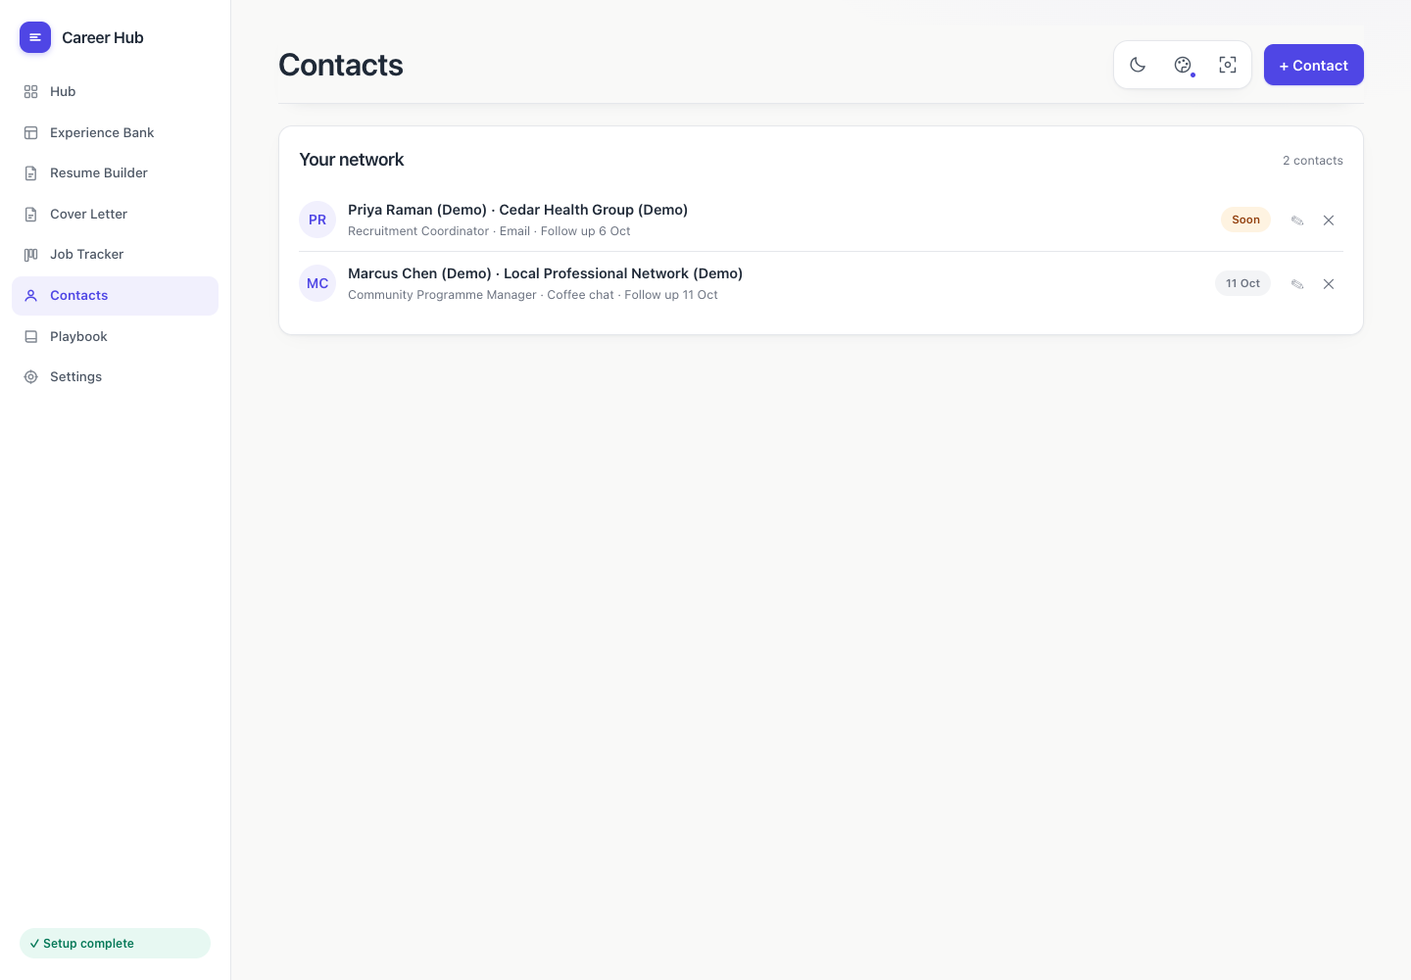
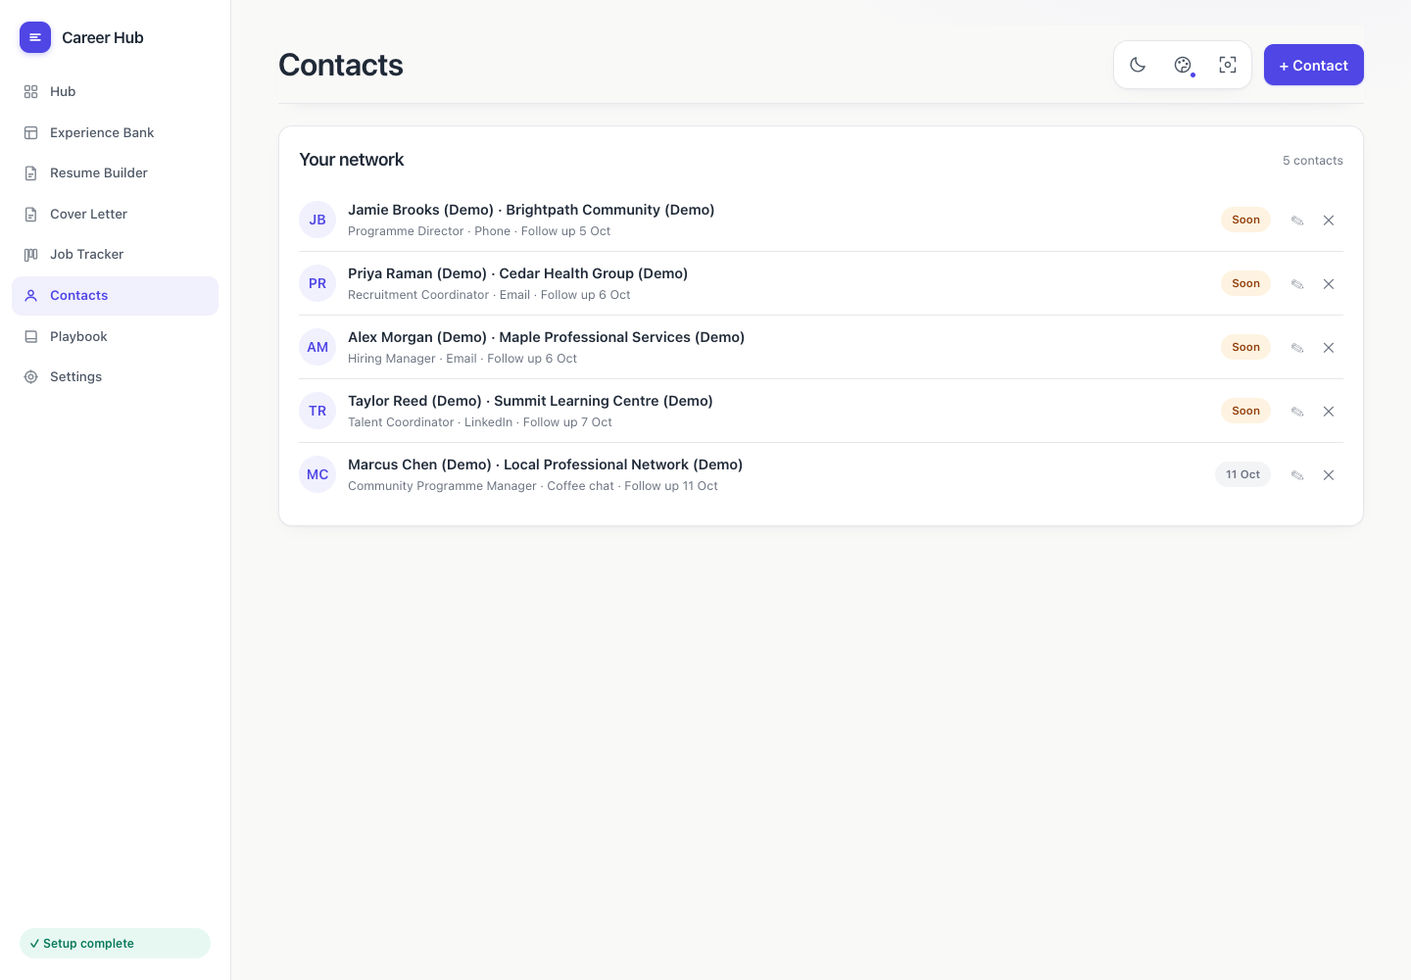
planner

diff --git a/1-SELL-THIS/Career-Hub.html b/1-SELL-THIS/Career-Hub.html
@@ -349,6 +349,7 @@ function blank(){return{version:VER,settings:{theme:"light",accent:"indigo",focu
 var COLLECTIONS=["experiences","projects","education","certs","awards","skills","applications","contacts","badges"];
 
 function sampleData(){return{
+version:VER,
 settings:{theme:"light",accent:"indigo",focus:false},
 profile:{name:"Jordan Lee",headline:"Operations & Client Services Professional",email:"jordan.lee@example.com",phone:"+1 (555) 010-4477",location:"Boston, MA",links:"linkedin.com/in/jordanlee-example",summary:"Operations and client services professional with 6 years of experience helping teams deliver reliable service. Improved turnaround times, supported staff development, and managed budgets with care. Brings clear communication, practical problem-solving, and a focus on customer needs."},
 experiences:[
@@ -369,15 +370,25 @@ skills:[
 {id:uid(),group:"Professional Skills",items:"Written communication, presentations, problem-solving, spreadsheet reporting"}
 ],
 applications:[
-{id:uid(),company:"Cedar Health Group (Demo)",role:"Patient Services Coordinator",status:"Interviewing",location:"Boston, MA",salary:"",applied:shift(iso(),-8),followUp:shift(iso(),2),url:"",contact:"Priya, recruitment team",notes:"First conversation completed. Prepare examples of client care, confidentiality, and handling busy periods."},
-{id:uid(),company:"Summit Learning Centre (Demo)",role:"Programme Coordinator",status:"Applied",location:"Hybrid",salary:"",applied:shift(iso(),-4),followUp:shift(iso(),3),url:"",contact:"",notes:"Tailored the resume to scheduling, learner support, and workshop delivery. Follow up politely next week."},
-{id:uid(),company:"Oak & Field Retail (Demo)",role:"Customer Experience Supervisor",status:"Wishlist",location:"Boston, MA",salary:"",applied:"",followUp:shift(iso(),4),url:"",contact:"",notes:"Review the role requirements and choose two relevant achievements before applying."},
-{id:uid(),company:"Riverbank Hospitality (Demo)",role:"Guest Services Coordinator",status:"Rejected",location:"Boston, MA",salary:"",applied:shift(iso(),-22),followUp:"",url:"",contact:"",notes:"Role filled internally. Keep the useful interview practice; this outcome does not define my ability."},
-{id:uid(),company:"Maple Professional Services (Demo)",role:"Office & Operations Coordinator",status:"Offer",location:"Hybrid",salary:"",applied:shift(iso(),-35),followUp:shift(iso(),2),url:"",contact:"Alex, hiring manager",notes:"Written offer received. Compare responsibilities, pay, flexibility, learning opportunities, and team fit before deciding."}
+{id:uid(),company:"Cedar Health Group (Demo)",role:"Patient Services Coordinator",status:"Interviewing",location:"Boston, MA",salaryCents:6400000,currency:"USD",salaryNote:"Illustrative annual base pay; not a market estimate.",url:"",contact:"Priya, recruitment team",notes:"Second interview booked. Prepare one example of protecting client information and one of improving a busy service. Ask about onboarding and team support.",applied:shift(iso(),-8),followUp:shift(iso(),2)},
+{id:uid(),company:"Summit Learning Centre (Demo)",role:"Programme Coordinator",status:"Applied",location:"Hybrid \u00b7 Boston",salaryCents:6100000,currency:"USD",salaryNote:"Illustrative annual base pay; not a market estimate.",url:"",contact:"Taylor, talent team",notes:"Application sent with scheduling and workshop achievements. Check the hiring timeline before sending one brief follow-up.",applied:shift(iso(),-4),followUp:shift(iso(),3)},
+{id:uid(),company:"Oak & Field Retail (Demo)",role:"Customer Experience Supervisor",status:"Wishlist",location:"Boston, MA",salaryCents:5900000,currency:"USD",salaryNote:"Illustrative annual base pay; not a market estimate.",url:"",contact:"",notes:"Compare hours and team responsibilities. Tailor the customer-care bullets before applying.",applied:"",followUp:shift(iso(),4)},
+{id:uid(),company:"Riverbank Hospitality (Demo)",role:"Guest Services Coordinator",status:"Rejected",location:"Boston, MA",salaryCents:5700000,currency:"USD",salaryNote:"Illustrative annual base pay; not a market estimate.",url:"",contact:"",notes:"Role filled internally. Save the interview lesson: use a clearer example of resolving a customer complaint. No further follow-up needed.",applied:shift(iso(),-22),followUp:""},
+{id:uid(),company:"Maple Professional Services (Demo)",role:"Office & Operations Coordinator",status:"Offer",location:"Hybrid \u00b7 Boston",salaryCents:6800000,currency:"USD",salaryNote:"Illustrative annual base pay; not a market estimate.",url:"",contact:"Alex, hiring manager",notes:"Written offer received. Compare base pay, paid leave, commute and learning opportunities. Prepare questions before deciding; the decision is still open.",applied:shift(iso(),-35),followUp:""},
+{id:uid(),company:"Northline Logistics (Demo)",role:"Operations Specialist",status:"Applied",location:"Boston, MA",salaryCents:6600000,currency:"USD",salaryNote:"Illustrative annual base pay; not a market estimate.",url:"",contact:"Sam, recruitment team",notes:"Follow-up due. Ask whether the hiring timeline has changed and offer any useful information. Keep the message short.",applied:shift(iso(),-9),followUp:shift(iso(),-1)},
+{id:uid(),company:"Brightpath Community (Demo)",role:"Service Delivery Coordinator",status:"Interviewing",location:"Hybrid \u00b7 Cambridge",salaryCents:6500000,currency:"USD",salaryNote:"Illustrative annual base pay; not a market estimate.",url:"",contact:"Jamie, programme director",notes:"First interview tomorrow. Practise a 60-second introduction and a story about improving the booking process. Ask how success is measured in the first 90 days.",applied:shift(iso(),-12),followUp:shift(iso(),1)},
+{id:uid(),company:"Willow Education (Demo)",role:"Student Services Officer",status:"Applied",location:"Cambridge, MA",salaryCents:6000000,currency:"USD",salaryNote:"Illustrative annual base pay; not a market estimate.",url:"",contact:"Morgan, people team",notes:"Confirmation email received. Keep the tailored resume and posting together. Wait for the stated review period before following up.",applied:shift(iso(),-2),followUp:shift(iso(),5)},
+{id:uid(),company:"Harbour Technology (Demo)",role:"Customer Onboarding Coordinator",status:"Wishlist",location:"Remote \u00b7 US",salaryCents:7000000,currency:"USD",salaryNote:"Illustrative annual base pay; not a market estimate.",url:"",contact:"",notes:"Research the product and the training provided. Look for transferable client-service skills; do not claim technical experience you do not have.",applied:"",followUp:shift(iso(),6)},
+{id:uid(),company:"Eastwood Housing (Demo)",role:"Resident Services Coordinator",status:"Applied",location:"Boston, MA",salaryCents:6200000,currency:"USD",salaryNote:"Illustrative annual base pay; not a market estimate.",url:"",contact:"Casey, hiring team",notes:"Submitted examples of confidentiality, record keeping and community workshops. Prepare a relevant question about resident support.",applied:shift(iso(),-6),followUp:shift(iso(),2)},
+{id:uid(),company:"Greenway Foundation (Demo)",role:"Community Programme Officer",status:"Wishlist",location:"Hybrid \u00b7 Boston",salaryCents:6300000,currency:"USD",salaryNote:"Illustrative annual base pay; not a market estimate.",url:"",contact:"Marcus, professional contact",notes:"Read the programme goals and check required experience. Ask Marcus for context without asking him to guarantee an introduction.",applied:"",followUp:shift(iso(),7)},
+{id:uid(),company:"Clearview Services (Demo)",role:"Client Support Lead",status:"Rejected",location:"Boston, MA",salaryCents:6100000,currency:"USD",salaryNote:"Illustrative annual base pay; not a market estimate.",url:"",contact:"",notes:"Another candidate had more direct leadership experience. Keep the useful feedback and strengthen a real coaching example for the next role.",applied:shift(iso(),-28),followUp:""}
 ],
 contacts:[
-{id:uid(),name:"Priya Raman (Demo)",company:"Cedar Health Group (Demo)",role:"Recruitment Coordinator",method:"Email",lastContact:shift(iso(),-3),next:shift(iso(),2),notes:"Thank her for explaining the role. Confirm the interview time and ask what to prepare."},
-{id:uid(),name:"Marcus Chen (Demo)",company:"Local Professional Network (Demo)",role:"Community Programme Manager",method:"Coffee chat",lastContact:shift(iso(),-5),next:shift(iso(),7),notes:"Send a short thank-you with one useful takeaway. Offer to share the workshop planning checklist."}
+{id:uid(),name:"Priya Raman (Demo)",company:"Cedar Health Group (Demo)",role:"Recruitment Coordinator",method:"Email",notes:"Confirm the interview time and ask what to prepare. Thank her for explaining the team.",lastContact:shift(iso(),-3),next:shift(iso(),2)},
+{id:uid(),name:"Marcus Chen (Demo)",company:"Local Professional Network (Demo)",role:"Community Programme Manager",method:"Coffee chat",notes:"Send a thank-you with one useful takeaway. Share the workshop planning checklist if it would help.",lastContact:shift(iso(),-5),next:shift(iso(),7)},
+{id:uid(),name:"Jamie Brooks (Demo)",company:"Brightpath Community (Demo)",role:"Programme Director",method:"Phone",notes:"Prepare two questions about the service team and how the coordinator works with volunteers.",lastContact:shift(iso(),-2),next:shift(iso(),1)},
+{id:uid(),name:"Taylor Reed (Demo)",company:"Summit Learning Centre (Demo)",role:"Talent Coordinator",method:"LinkedIn",notes:"Wait for the stated review window. Follow up once with a short, relevant message.",lastContact:shift(iso(),-4),next:shift(iso(),3)},
+{id:uid(),name:"Alex Morgan (Demo)",company:"Maple Professional Services (Demo)",role:"Hiring Manager",method:"Email",notes:"Clarify the written offer: benefits, reporting line and starting date. Record the answers before comparing options.",lastContact:shift(iso(),-1),next:shift(iso(),2)}
 ],
 notes:{s1:"This week: choose one target role, strengthen two achievement bullets, and send one thoughtful application. Small, steady steps count.",star:"Example story: appointment delays. I gathered feedback, tested a simpler checklist, and reduced processing time from 20 to 14 minutes. Keep the real numbers and explain my own contribution.",bank:"Prepare examples of helping a client, improving a process, supporting a colleague, managing a deadline, learning from a mistake, and leading a small project.",r11:"Review what I can improve without blaming myself. Hiring outcomes also depend on timing, competition, and employer needs."},cover:{applicationId:"",date:iso(),recipient:"Hiring Team",company:"Cedar Health Group (Demo)",address:"",role:"Patient Services Coordinator",salutation:"Dear Hiring Team,",opening:"I am interested in the Patient Services Coordinator role because it combines organised service delivery with thoughtful client support.",evidence:"In my sample experience, I coordinated schedules for 12 colleagues and helped improve on-time service delivery from 86% to 96%. I also handled 40 client enquiries daily and helped improve the appointment-booking process.",closing:"Thank you for considering my application. I would welcome the opportunity to discuss how my coordination and service experience could support your team."},resume:{template:"mint",accent:"mint",inc:{}},badges:[]
 }}
@@ -704,7 +715,7 @@ $("#title").textContent=TITLES[view]||"Hub";
 var a=ADD[view]?ADD[view]():null;
 $("#acts").innerHTML=a?'<button class="primary" data-act="new" data-col="'+a[0]+'">+ '+a[1]+'</button>':"";
 var html=V[view]();
-$("#view").innerHTML=(sampleMode&&!bannerHidden)?'<div class="banner" id="sample-banner">Sample data — nothing saved. Refresh to clear.<button data-act="sample">Exit sample</button><button data-act="hide-banner">Hide</button></div>'+html:html;
+$("#view").innerHTML=(sampleMode&&!bannerHidden)?'<div class="banner" id="sample-banner">Fictional examples — explore, then add your own. Nothing is saved.<button data-act="sample">Exit sample</button><button data-act="hide-banner">Hide</button></div>'+html:html;
 var r=readiness();
 $("#sidefoot").innerHTML=S.badges.length?S.badges.slice(-1).map(function(b){return '<span class="badge-chip">'+E(b.emoji||"🏆")+' '+E(b.label)+'</span>'}).join(""):'<span class="muted" style="font-size:12px">Readiness '+r.pct+'%</span>';
 renderAppearance();

diff --git a/2-HOST-ONLINE/index.html b/2-HOST-ONLINE/index.html
@@ -349,6 +349,7 @@ function blank(){return{version:VER,settings:{theme:"light",accent:"indigo",focu
 var COLLECTIONS=["experiences","projects","education","certs","awards","skills","applications","contacts","badges"];
 
 function sampleData(){return{
+version:VER,
 settings:{theme:"light",accent:"indigo",focus:false},
 profile:{name:"Jordan Lee",headline:"Operations & Client Services Professional",email:"jordan.lee@example.com",phone:"+1 (555) 010-4477",location:"Boston, MA",links:"linkedin.com/in/jordanlee-example",summary:"Operations and client services professional with 6 years of experience helping teams deliver reliable service. Improved turnaround times, supported staff development, and managed budgets with care. Brings clear communication, practical problem-solving, and a focus on customer needs."},
 experiences:[
@@ -369,15 +370,25 @@ skills:[
 {id:uid(),group:"Professional Skills",items:"Written communication, presentations, problem-solving, spreadsheet reporting"}
 ],
 applications:[
-{id:uid(),company:"Cedar Health Group (Demo)",role:"Patient Services Coordinator",status:"Interviewing",location:"Boston, MA",salary:"",applied:shift(iso(),-8),followUp:shift(iso(),2),url:"",contact:"Priya, recruitment team",notes:"First conversation completed. Prepare examples of client care, confidentiality, and handling busy periods."},
-{id:uid(),company:"Summit Learning Centre (Demo)",role:"Programme Coordinator",status:"Applied",location:"Hybrid",salary:"",applied:shift(iso(),-4),followUp:shift(iso(),3),url:"",contact:"",notes:"Tailored the resume to scheduling, learner support, and workshop delivery. Follow up politely next week."},
-{id:uid(),company:"Oak & Field Retail (Demo)",role:"Customer Experience Supervisor",status:"Wishlist",location:"Boston, MA",salary:"",applied:"",followUp:shift(iso(),4),url:"",contact:"",notes:"Review the role requirements and choose two relevant achievements before applying."},
-{id:uid(),company:"Riverbank Hospitality (Demo)",role:"Guest Services Coordinator",status:"Rejected",location:"Boston, MA",salary:"",applied:shift(iso(),-22),followUp:"",url:"",contact:"",notes:"Role filled internally. Keep the useful interview practice; this outcome does not define my ability."},
-{id:uid(),company:"Maple Professional Services (Demo)",role:"Office & Operations Coordinator",status:"Offer",location:"Hybrid",salary:"",applied:shift(iso(),-35),followUp:shift(iso(),2),url:"",contact:"Alex, hiring manager",notes:"Written offer received. Compare responsibilities, pay, flexibility, learning opportunities, and team fit before deciding."}
+{id:uid(),company:"Cedar Health Group (Demo)",role:"Patient Services Coordinator",status:"Interviewing",location:"Boston, MA",salaryCents:6400000,currency:"USD",salaryNote:"Illustrative annual base pay; not a market estimate.",url:"",contact:"Priya, recruitment team",notes:"Second interview booked. Prepare one example of protecting client information and one of improving a busy service. Ask about onboarding and team support.",applied:shift(iso(),-8),followUp:shift(iso(),2)},
+{id:uid(),company:"Summit Learning Centre (Demo)",role:"Programme Coordinator",status:"Applied",location:"Hybrid \u00b7 Boston",salaryCents:6100000,currency:"USD",salaryNote:"Illustrative annual base pay; not a market estimate.",url:"",contact:"Taylor, talent team",notes:"Application sent with scheduling and workshop achievements. Check the hiring timeline before sending one brief follow-up.",applied:shift(iso(),-4),followUp:shift(iso(),3)},
+{id:uid(),company:"Oak & Field Retail (Demo)",role:"Customer Experience Supervisor",status:"Wishlist",location:"Boston, MA",salaryCents:5900000,currency:"USD",salaryNote:"Illustrative annual base pay; not a market estimate.",url:"",contact:"",notes:"Compare hours and team responsibilities. Tailor the customer-care bullets before applying.",applied:"",followUp:shift(iso(),4)},
+{id:uid(),company:"Riverbank Hospitality (Demo)",role:"Guest Services Coordinator",status:"Rejected",location:"Boston, MA",salaryCents:5700000,currency:"USD",salaryNote:"Illustrative annual base pay; not a market estimate.",url:"",contact:"",notes:"Role filled internally. Save the interview lesson: use a clearer example of resolving a customer complaint. No further follow-up needed.",applied:shift(iso(),-22),followUp:""},
+{id:uid(),company:"Maple Professional Services (Demo)",role:"Office & Operations Coordinator",status:"Offer",location:"Hybrid \u00b7 Boston",salaryCents:6800000,currency:"USD",salaryNote:"Illustrative annual base pay; not a market estimate.",url:"",contact:"Alex, hiring manager",notes:"Written offer received. Compare base pay, paid leave, commute and learning opportunities. Prepare questions before deciding; the decision is still open.",applied:shift(iso(),-35),followUp:""},
+{id:uid(),company:"Northline Logistics (Demo)",role:"Operations Specialist",status:"Applied",location:"Boston, MA",salaryCents:6600000,currency:"USD",salaryNote:"Illustrative annual base pay; not a market estimate.",url:"",contact:"Sam, recruitment team",notes:"Follow-up due. Ask whether the hiring timeline has changed and offer any useful information. Keep the message short.",applied:shift(iso(),-9),followUp:shift(iso(),-1)},
+{id:uid(),company:"Brightpath Community (Demo)",role:"Service Delivery Coordinator",status:"Interviewing",location:"Hybrid \u00b7 Cambridge",salaryCents:6500000,currency:"USD",salaryNote:"Illustrative annual base pay; not a market estimate.",url:"",contact:"Jamie, programme director",notes:"First interview tomorrow. Practise a 60-second introduction and a story about improving the booking process. Ask how success is measured in the first 90 days.",applied:shift(iso(),-12),followUp:shift(iso(),1)},
+{id:uid(),company:"Willow Education (Demo)",role:"Student Services Officer",status:"Applied",location:"Cambridge, MA",salaryCents:6000000,currency:"USD",salaryNote:"Illustrative annual base pay; not a market estimate.",url:"",contact:"Morgan, people team",notes:"Confirmation email received. Keep the tailored resume and posting together. Wait for the stated review period before following up.",applied:shift(iso(),-2),followUp:shift(iso(),5)},
+{id:uid(),company:"Harbour Technology (Demo)",role:"Customer Onboarding Coordinator",status:"Wishlist",location:"Remote \u00b7 US",salaryCents:7000000,currency:"USD",salaryNote:"Illustrative annual base pay; not a market estimate.",url:"",contact:"",notes:"Research the product and the training provided. Look for transferable client-service skills; do not claim technical experience you do not have.",applied:"",followUp:shift(iso(),6)},
+{id:uid(),company:"Eastwood Housing (Demo)",role:"Resident Services Coordinator",status:"Applied",location:"Boston, MA",salaryCents:6200000,currency:"USD",salaryNote:"Illustrative annual base pay; not a market estimate.",url:"",contact:"Casey, hiring team",notes:"Submitted examples of confidentiality, record keeping and community workshops. Prepare a relevant question about resident support.",applied:shift(iso(),-6),followUp:shift(iso(),2)},
+{id:uid(),company:"Greenway Foundation (Demo)",role:"Community Programme Officer",status:"Wishlist",location:"Hybrid \u00b7 Boston",salaryCents:6300000,currency:"USD",salaryNote:"Illustrative annual base pay; not a market estimate.",url:"",contact:"Marcus, professional contact",notes:"Read the programme goals and check required experience. Ask Marcus for context without asking him to guarantee an introduction.",applied:"",followUp:shift(iso(),7)},
+{id:uid(),company:"Clearview Services (Demo)",role:"Client Support Lead",status:"Rejected",location:"Boston, MA",salaryCents:6100000,currency:"USD",salaryNote:"Illustrative annual base pay; not a market estimate.",url:"",contact:"",notes:"Another candidate had more direct leadership experience. Keep the useful feedback and strengthen a real coaching example for the next role.",applied:shift(iso(),-28),followUp:""}
 ],
 contacts:[
-{id:uid(),name:"Priya Raman (Demo)",company:"Cedar Health Group (Demo)",role:"Recruitment Coordinator",method:"Email",lastContact:shift(iso(),-3),next:shift(iso(),2),notes:"Thank her for explaining the role. Confirm the interview time and ask what to prepare."},
-{id:uid(),name:"Marcus Chen (Demo)",company:"Local Professional Network (Demo)",role:"Community Programme Manager",method:"Coffee chat",lastContact:shift(iso(),-5),next:shift(iso(),7),notes:"Send a short thank-you with one useful takeaway. Offer to share the workshop planning checklist."}
+{id:uid(),name:"Priya Raman (Demo)",company:"Cedar Health Group (Demo)",role:"Recruitment Coordinator",method:"Email",notes:"Confirm the interview time and ask what to prepare. Thank her for explaining the team.",lastContact:shift(iso(),-3),next:shift(iso(),2)},
+{id:uid(),name:"Marcus Chen (Demo)",company:"Local Professional Network (Demo)",role:"Community Programme Manager",method:"Coffee chat",notes:"Send a thank-you with one useful takeaway. Share the workshop planning checklist if it would help.",lastContact:shift(iso(),-5),next:shift(iso(),7)},
+{id:uid(),name:"Jamie Brooks (Demo)",company:"Brightpath Community (Demo)",role:"Programme Director",method:"Phone",notes:"Prepare two questions about the service team and how the coordinator works with volunteers.",lastContact:shift(iso(),-2),next:shift(iso(),1)},
+{id:uid(),name:"Taylor Reed (Demo)",company:"Summit Learning Centre (Demo)",role:"Talent Coordinator",method:"LinkedIn",notes:"Wait for the stated review window. Follow up once with a short, relevant message.",lastContact:shift(iso(),-4),next:shift(iso(),3)},
+{id:uid(),name:"Alex Morgan (Demo)",company:"Maple Professional Services (Demo)",role:"Hiring Manager",method:"Email",notes:"Clarify the written offer: benefits, reporting line and starting date. Record the answers before comparing options.",lastContact:shift(iso(),-1),next:shift(iso(),2)}
 ],
 notes:{s1:"This week: choose one target role, strengthen two achievement bullets, and send one thoughtful application. Small, steady steps count.",star:"Example story: appointment delays. I gathered feedback, tested a simpler checklist, and reduced processing time from 20 to 14 minutes. Keep the real numbers and explain my own contribution.",bank:"Prepare examples of helping a client, improving a process, supporting a colleague, managing a deadline, learning from a mistake, and leading a small project.",r11:"Review what I can improve without blaming myself. Hiring outcomes also depend on timing, competition, and employer needs."},cover:{applicationId:"",date:iso(),recipient:"Hiring Team",company:"Cedar Health Group (Demo)",address:"",role:"Patient Services Coordinator",salutation:"Dear Hiring Team,",opening:"I am interested in the Patient Services Coordinator role because it combines organised service delivery with thoughtful client support.",evidence:"In my sample experience, I coordinated schedules for 12 colleagues and helped improve on-time service delivery from 86% to 96%. I also handled 40 client enquiries daily and helped improve the appointment-booking process.",closing:"Thank you for considering my application. I would welcome the opportunity to discuss how my coordination and service experience could support your team."},resume:{template:"mint",accent:"mint",inc:{}},badges:[]
 }}
@@ -704,7 +715,7 @@ $("#title").textContent=TITLES[view]||"Hub";
 var a=ADD[view]?ADD[view]():null;
 $("#acts").innerHTML=a?'<button class="primary" data-act="new" data-col="'+a[0]+'">+ '+a[1]+'</button>':"";
 var html=V[view]();
-$("#view").innerHTML=(sampleMode&&!bannerHidden)?'<div class="banner" id="sample-banner">Sample data — nothing saved. Refresh to clear.<button data-act="sample">Exit sample</button><button data-act="hide-banner">Hide</button></div>'+html:html;
+$("#view").innerHTML=(sampleMode&&!bannerHidden)?'<div class="banner" id="sample-banner">Fictional examples — explore, then add your own. Nothing is saved.<button data-act="sample">Exit sample</button><button data-act="hide-banner">Hide</button></div>'+html:html;
 var r=readiness();
 $("#sidefoot").innerHTML=S.badges.length?S.badges.slice(-1).map(function(b){return '<span class="badge-chip">'+E(b.emoji||"🏆")+' '+E(b.label)+'</span>'}).join(""):'<span class="muted" style="font-size:12px">Readiness '+r.pct+'%</span>';
 renderAppearance();

diff --git a/2-HOST-ONLINE/sw.js b/2-HOST-ONLINE/sw.js
@@ -1,5 +1,5 @@
 // Career Hub offline cache. Caches the app only; workspace entries are stored in the browser.
-const C="career-hub-v1.0.23-full-width-band",FILES=['./','./index.html','./manifest.webmanifest','./icons/icon-180.png','./icons/icon-192.png','./icons/icon-512.png','./icons/icon-maskable-512.png'];
+const C="career-hub-v1.0.24-useful-sample-data",FILES=['./','./index.html','./manifest.webmanifest','./icons/icon-180.png','./icons/icon-192.png','./icons/icon-512.png','./icons/icon-maskable-512.png'];
 self.addEventListener('install',e=>e.waitUntil(caches.open(C).then(c=>c.addAll(FILES)).then(()=>self.skipWaiting())));
 self.addEventListener('activate',e=>e.waitUntil(caches.keys().then(k=>Promise.all(k.filter(x=>x.startsWith('career-hub-')&&x!==C).map(x=>caches.delete(x)))).then(()=>self.clients.claim())));
 self.addEventListener('fetch',e=>{const r=e.request;if(r.method!=='GET'||new URL(r.url).origin!==location.origin)return;
